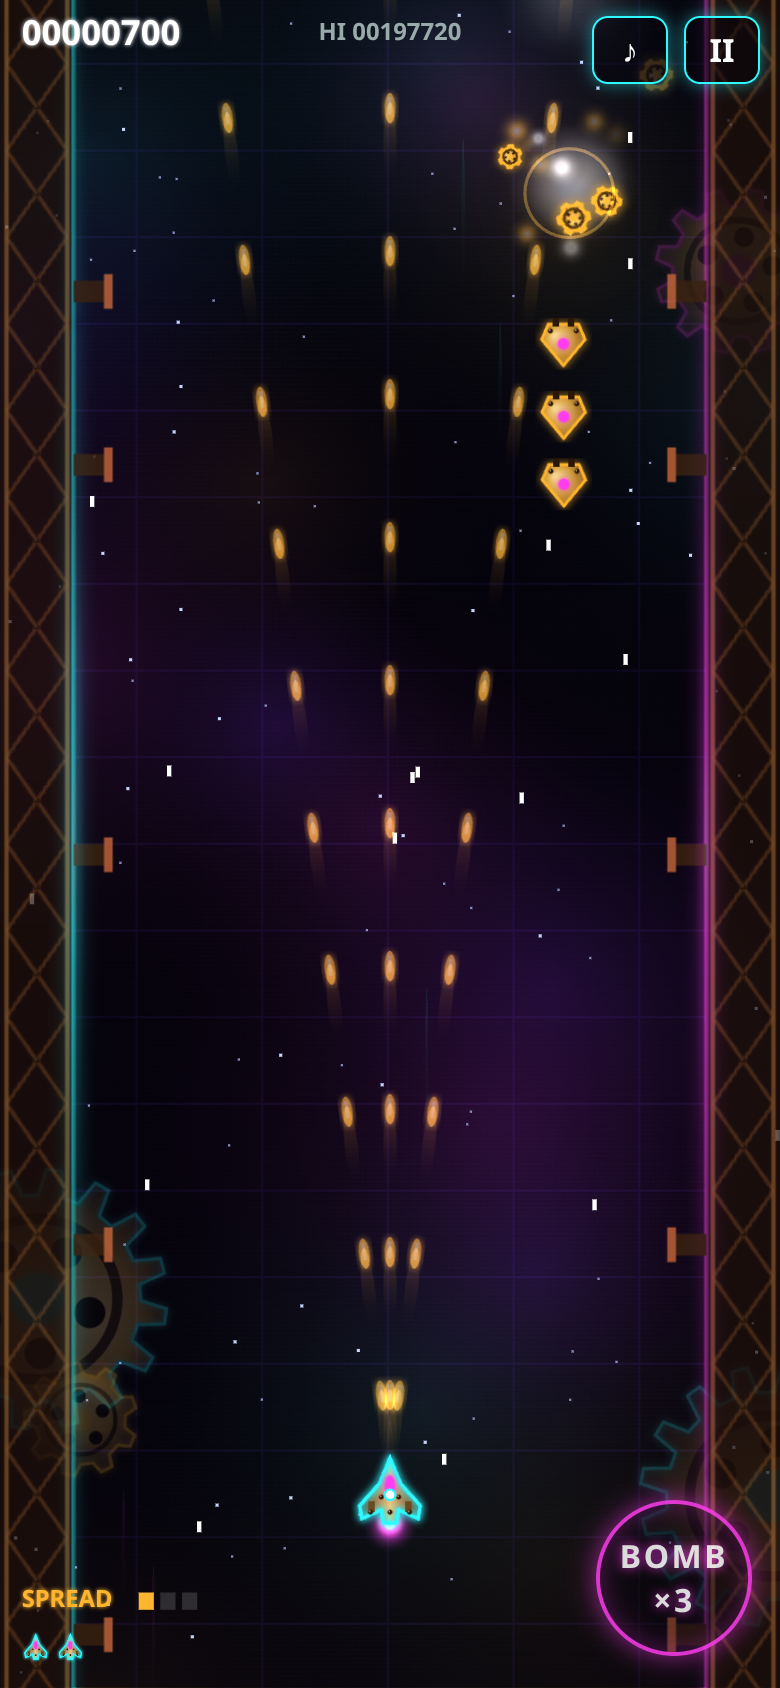
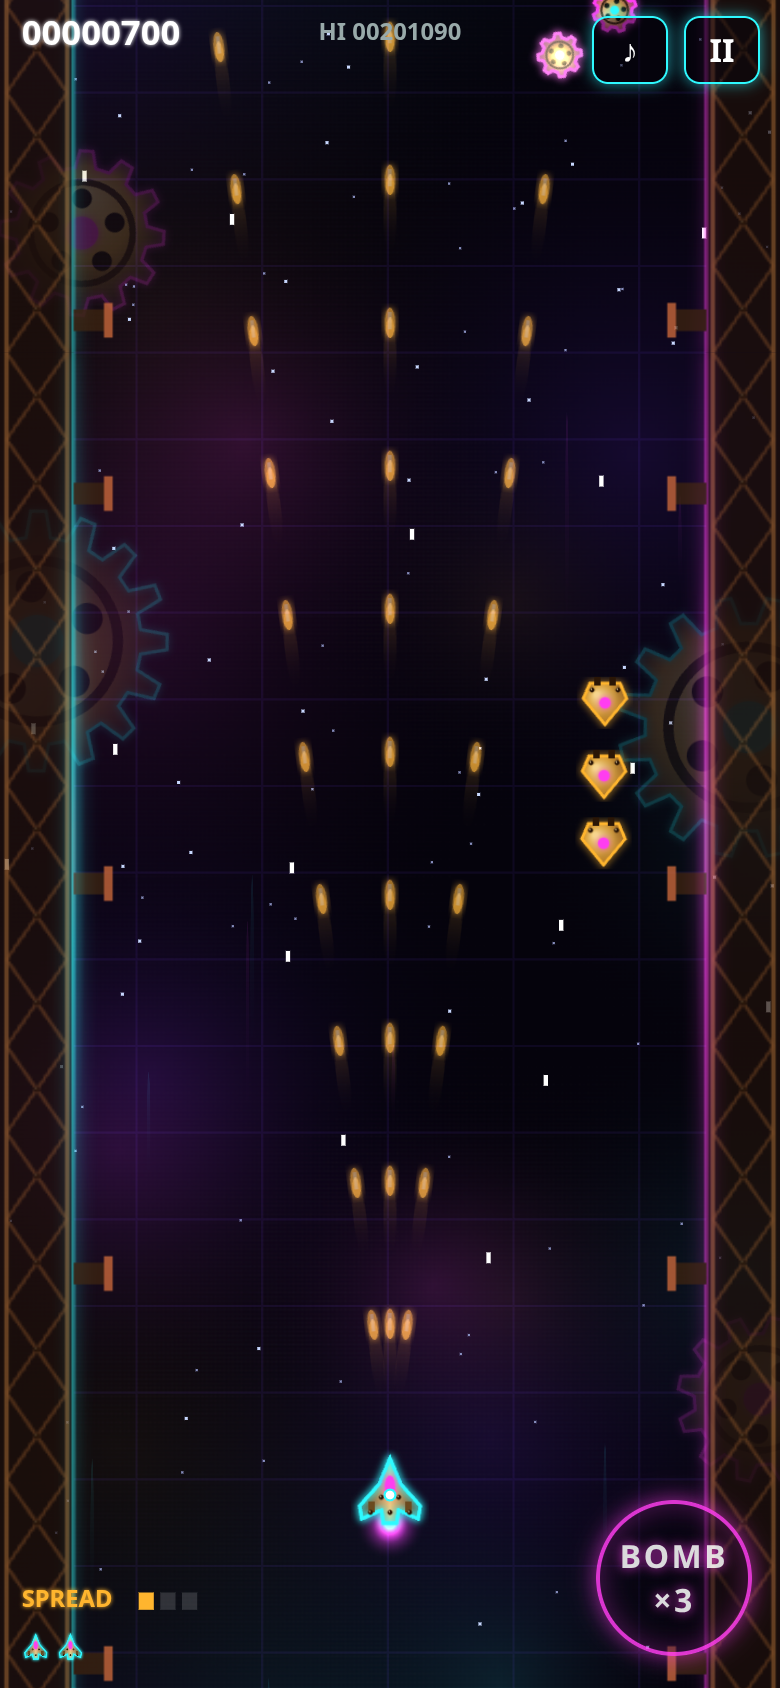
v0.2: beat-pulsed UI accents

diff --git a/build/game.js b/build/game.js
@@ -383,7 +383,7 @@ function drawEnemy(e){const fl=e.fl>0&&(e.fl%2===1);
   ctx.strokeStyle=COL.cy;ctx.lineWidth=2;ctx.beginPath();ctx.moveTo(0,0);ctx.lineTo(Math.cos(ma)*46,Math.sin(ma)*46);ctx.stroke();
   ctx.fillStyle=e.phase===2?COL.eb:COL.am;ctx.beginPath();ctx.arc(0,0,6,0,TAU);ctx.fill();ctx.restore();break;}}}
 function drawLightning(x0,y0,x1,y1){const n=7;ctx.beginPath();ctx.moveTo(x0,y0);for(let i=1;i<n;i++){const f=i/n;ctx.lineTo(x0+(x1-x0)*f+rnd(-9,9),y0+(y1-y0)*f+rnd(-9,9));}ctx.lineTo(x1,y1);}
-function draw(){const play=G.state!=='title';const bc=beatClock();FX.pulse=Math.exp(-bc.f*5)*(SET.rf?.3:1)*(bc.b%4===0?1:.75);const sx=G.shake?rnd(-G.shake,G.shake):0,sy=G.shake?rnd(-G.shake,G.shake):0;
+function draw(){const play=G.state!=='title';const bc=beatClock();FX.pulse=Math.exp(-bc.f*5)*(SET.rf?.3:1)*(bc.b%4===0?1:.75);const pq=Math.round(FX.pulse*10)/10;if(pq!==FX.pq){FX.pq=pq;document.documentElement.style.setProperty('--p',pq);}const sx=G.shake?rnd(-G.shake,G.shake):0,sy=G.shake?rnd(-G.shake,G.shake):0;
  ctx.setTransform(SC*DPR,0,0,SC*DPR,sx*SC*DPR,sy*SC*DPR);drawBG(G.state==='pause'?0:1);
  if(!play){return;}
  // smoke under

diff --git a/src/main.js b/src/main.js
@@ -217,7 +217,7 @@ function drawEnemy(e){const fl=e.fl>0&&(e.fl%2===1);
   ctx.strokeStyle=COL.cy;ctx.lineWidth=2;ctx.beginPath();ctx.moveTo(0,0);ctx.lineTo(Math.cos(ma)*46,Math.sin(ma)*46);ctx.stroke();
   ctx.fillStyle=e.phase===2?COL.eb:COL.am;ctx.beginPath();ctx.arc(0,0,6,0,TAU);ctx.fill();ctx.restore();break;}}}
 function drawLightning(x0,y0,x1,y1){const n=7;ctx.beginPath();ctx.moveTo(x0,y0);for(let i=1;i<n;i++){const f=i/n;ctx.lineTo(x0+(x1-x0)*f+rnd(-9,9),y0+(y1-y0)*f+rnd(-9,9));}ctx.lineTo(x1,y1);}
-function draw(){const play=G.state!=='title';const bc=beatClock();FX.pulse=Math.exp(-bc.f*5)*(SET.rf?.3:1)*(bc.b%4===0?1:.75);const sx=G.shake?rnd(-G.shake,G.shake):0,sy=G.shake?rnd(-G.shake,G.shake):0;
+function draw(){const play=G.state!=='title';const bc=beatClock();FX.pulse=Math.exp(-bc.f*5)*(SET.rf?.3:1)*(bc.b%4===0?1:.75);const pq=Math.round(FX.pulse*10)/10;if(pq!==FX.pq){FX.pq=pq;document.documentElement.style.setProperty('--p',pq);}const sx=G.shake?rnd(-G.shake,G.shake):0,sy=G.shake?rnd(-G.shake,G.shake):0;
  ctx.setTransform(SC*DPR,0,0,SC*DPR,sx*SC*DPR,sy*SC*DPR);drawBG(G.state==='pause'?0:1);
  if(!play){return;}
  // smoke under

diff --git a/index.html b/index.html
@@ -44,6 +44,8 @@ h2{font-size:38px;margin:0 0 10px;letter-spacing:.12em}
 #bPause{right:10px}#bMute{right:56px}
 #bBomb{right:14px;bottom:max(16px,env(safe-area-inset-bottom));width:78px;height:78px;border-radius:50%;border:2px solid #ff3df0;box-shadow:0 0 14px rgba(255,61,240,.7),inset 0 0 14px rgba(255,61,240,.35);font-size:12px;letter-spacing:.08em;text-shadow:0 0 6px #ff3df0;opacity:.85}
 #bBomb.empty{opacity:.3}
+#bPause,#bMute{box-shadow:0 0 calc(6px + 12px*var(--p,0)) rgba(46,249,255,.6)}#bBomb{box-shadow:0 0 calc(10px + 18px*var(--p,0)) rgba(255,61,240,.75),inset 0 0 14px rgba(255,61,240,.35)}
+.pulse{animation:none;box-shadow:0 0 calc(12px + 18px*var(--p,0)) rgba(46,249,255,.7),inset 0 0 12px rgba(46,249,255,.3)}
 </style></head><body>
 <div id="splash"><div class="sp-t">RAINWATER GAMES</div><div class="dots"><i></i><i></i><i></i></div><div class="sp-t" style="font-size:10px;color:#889;text-shadow:none">LOADING</div></div>
 <canvas id="c"></canvas>
